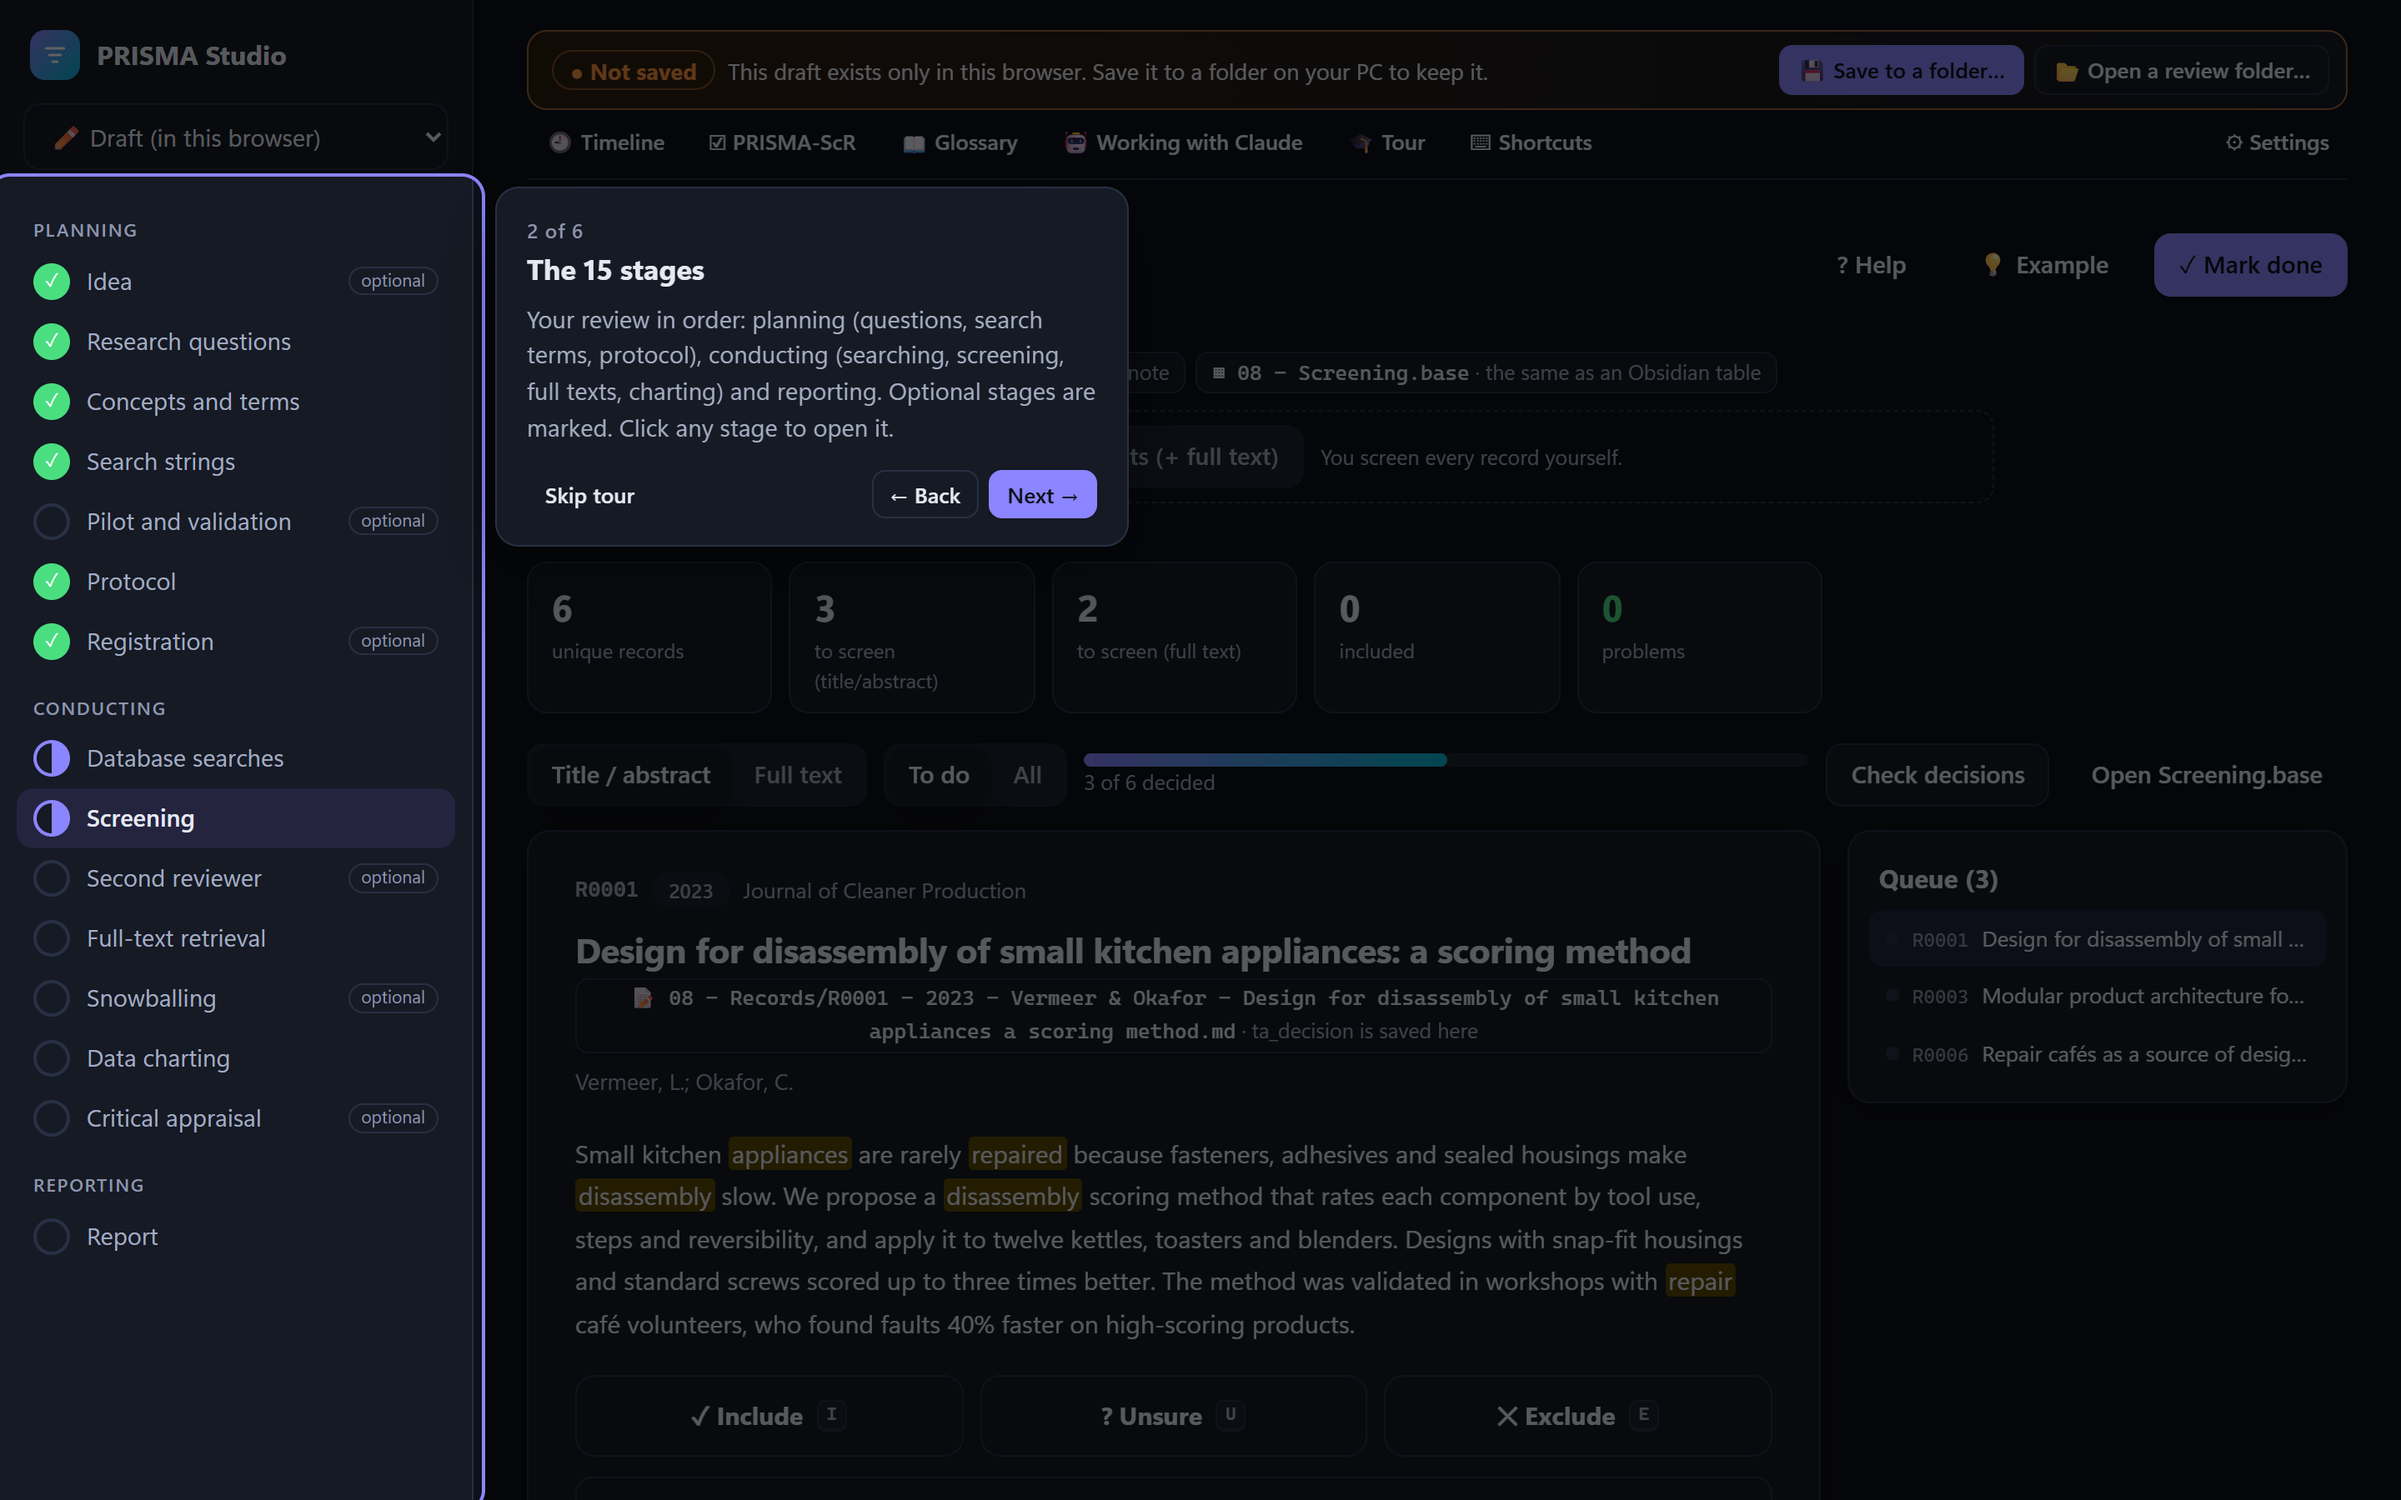
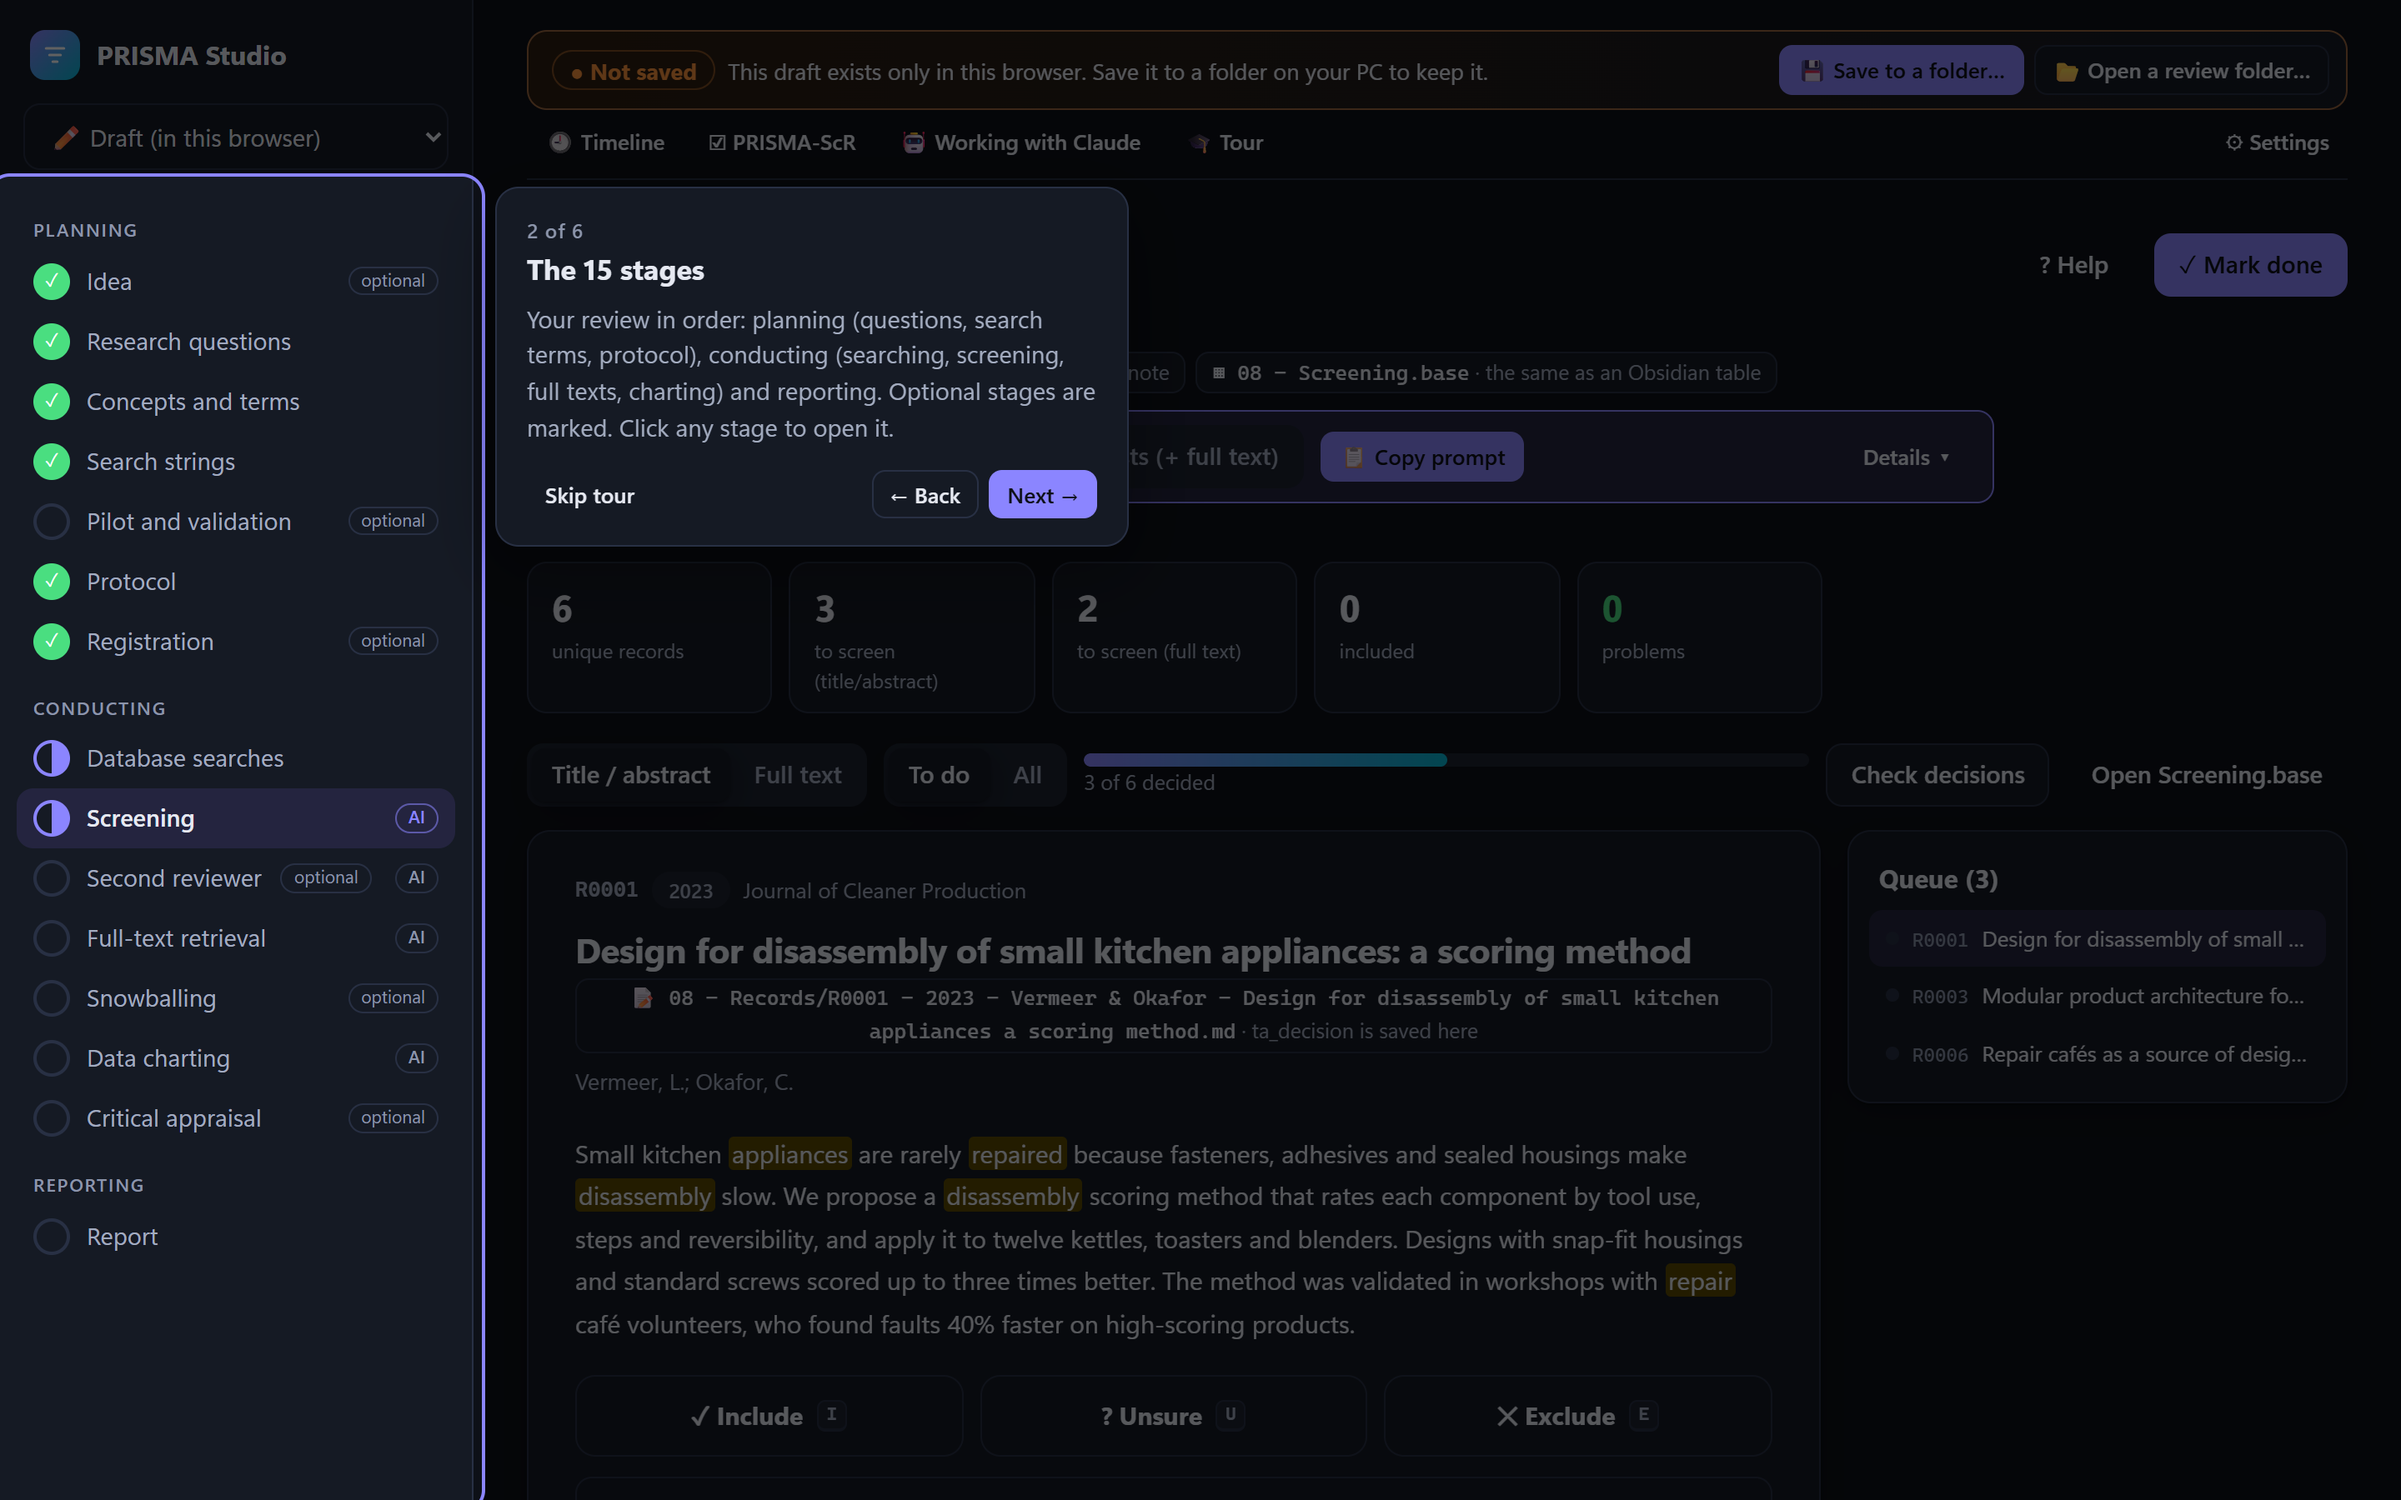
Sidebar: an 'AI' label on the stages where AI can help (grey while off, accent when on); stage names stay on one line. README screenshots updated

diff --git a/web/review-studio.js b/web/review-studio.js
@@ -274,6 +274,13 @@ function pilotChart(pilots) {
 const PHASES = [["Planning", 0, 6], ["Conducting", 7, 13], ["Reporting", 14, 14]];
 const stage = k => S.stages.find(s => s.key === k);
 
+/** "AI" next to a stage where AI can help: grey while off, in the accent colour when the review switched it on. */
+function aiMark(key) {
+  if (!S.ai?.steps[key]) return null;
+  const on = (S.ai.modes[key] || "off") !== "off";
+  return h("span", { class: "ai-mark" + (on ? " on" : ""), title: on ? "AI assistance is on for this stage" : "AI can help here (off; switch it on in the stage's AI assistance card)" }, "AI");
+}
+
 function renderSidebar() {
   const sel = $("#reviewSel");
   const label = r => /[\\/]/.test(r) ? "📂 " + r.split(/[\\/]/).pop().replace(/ records$/, "") : r;
@@ -287,7 +294,7 @@ function renderSidebar() {
     S.stages.slice(a, b + 1).forEach((s, i) => nav.append(h("div", {
       class: `step ${s.status} ${s.key === CUR ? "active" : ""}`, onclick: () => go(s.key), title: s.desc,
     }, h("span", { class: "dot" }, s.status === "done" ? "✓" : s.status === "skipped" ? "–" : ""),
-      s.title.replace(/^\d+ · /, ""), s.optional ? h("span", { class: "opt" }, "optional") : null)));
+      s.title.replace(/^\d+ · /, ""), s.optional ? h("span", { class: "opt" }, "optional") : null, aiMark(s.key))));
   });
   nav.querySelector(".step.active")?.scrollIntoView({ block: "nearest", inline: "nearest" });   // narrow layout: keep the current step in view
 }

diff --git a/web/style.css b/web/style.css
@@ -329,3 +329,7 @@ input:focus-visible, select:focus-visible, textarea:focus-visible { outline: non
 }
 @media (prefers-reduced-motion: reduce) { #btnTour.glow, .tour-offer { animation: none; } #btnTour.glow { background: var(--accent-2); } .tour-offer { border-color: var(--accent); } }
 .aicard .spacer { flex: 1; }
+.step .ai-mark { margin-left: auto; font-size: 10.5px; font-weight: 600; color: var(--faint); border: 1px solid var(--border); border-radius: 99px; padding: 0 7px; }
+.step .ai-mark.on { color: var(--accent); border-color: color-mix(in srgb, var(--accent) 55%, transparent); background: var(--accent-2); }
+.step { white-space: nowrap; }
+.step .opt + .ai-mark { margin-left: 4px; }

diff --git a/scripts/readme-screenshot.js b/scripts/readme-screenshot.js
@@ -23,6 +23,7 @@ const DEMO = async () => {
     { name: "Appliances", terms: ["appliance*", "household product*", "consumer electronic*"] },
     { name: "Design", terms: ["design method*", "design guideline*", "design for"] }]);
   for (const k of ["idea", "questions", "concepts", "queries", "protocol"]) await s.setStageStatus(k, "done");
+  await s.setAiMode("screening", "suggest");                   // shows the AI label in the sidebar, switched on
   await s.lockProtocol("OSF");
   const papers = [
     ["Design for disassembly of small kitchen appliances: a scoring method", "Vermeer, L.; Okafor, C.", 2023, "Journal of Cleaner Production",
